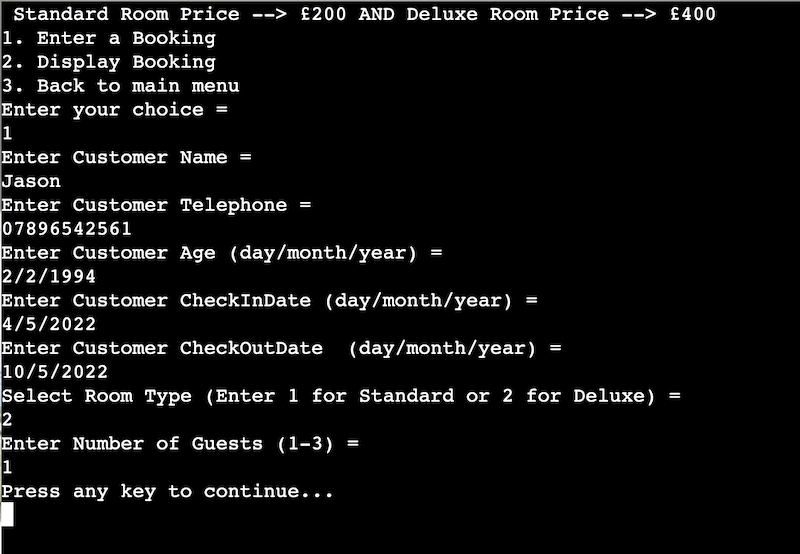
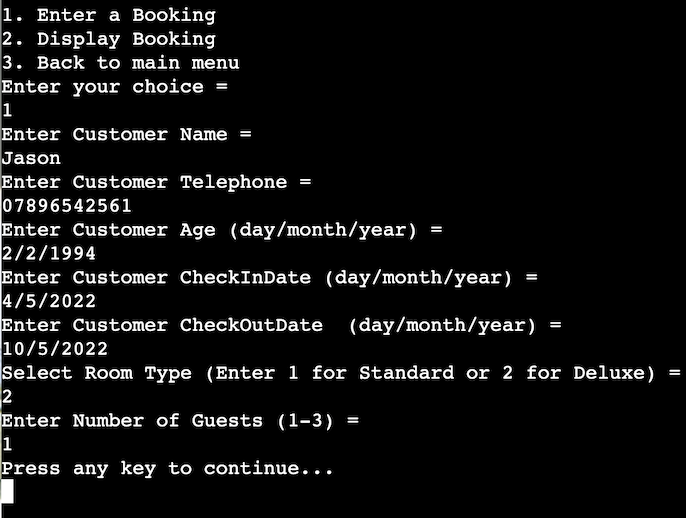
Clean up README.md

Changed region(s): [[0.0, 0.0, 1.0, 0.9884]]

diff --git a/README.md b/README.md
@@ -3,7 +3,7 @@
 * [Live link](https://the-boutique-hotel.herokuapp.com/) of the project
 
 ## Project Overview
-In this project I have created a hotel bookings management system that links to a spreadsheet. The user operating the system can create a booking by entering inputs of the client for whom the booking is made. The system ensures correct data is entered within each input by rasising an error if incorrect data or format is entered. The system also generates a total cost to stay at the hotel based on the type of room selected, the number of nights and people. Finallythe system than generates a booking ID for each client and adds it to the spreadsheet. The user can also fetch all bookings to be displayed altogether or display each booking by entering a specific booking ID.
+In this project I have created a hotel bookings management system that links to a spreadsheet. The user operating the system can create a booking by entering inputs of the client for whom the booking is made. The system ensures correct data is entered within each input by raising an error if incorrect data or format is entered. The system also generates a total cost of stay at the hotel based on the type of room selected, the number of nights and number of guests. Finally the system than generates a booking ID for each client and adds it to the spreadsheet. The user can also fetch all bookings to be displayed altogether or display each booking by entering a specific booking ID.
 
 ## Table of contents:
 * [**The Boutique Hotel**](#the-boutique-hotel)
@@ -19,8 +19,9 @@ In this project I have created a hotel bookings management system that links to 
 * [**Testing**](#testing)
     * [***test cases***](#test-cases)
     * [**Fixed bugs:**](#fixed-bugs)
+    * [**Validation**](#validation)
 * [**Deployment**](#deployment)
-  * [**GitHub](#Github)
+  * [**GitHub**](#Github)
   * [**Heroku**](#Heroku)
   * [**Make a clone**](#Clone)
 * [**Credits**](#credits)
@@ -47,7 +48,7 @@ In this project I have created a hotel bookings management system that links to 
   2. **Display Booking Data**
   3. **Exit**
 
-* **Enter/Manage Bookings**, a booking sub menu opens displaying the room type and price at the tope and 3 options:
+* **Enter/Manage Bookings**, a booking sub menu opens displaying 3 options:
   1. **The Enter a booking**
   2. **Display booking**
   3. **Back to main menu**
@@ -100,7 +101,7 @@ In this project I have created a hotel bookings management system that links to 
 * Displays the unique booking ID and calculates total cost of stay
   ![Booking](./assets/readme-files/test-ID-total-cost.png)
 * Display all bookings stored within the spread sheet
-  ![Booking](./assets/readme-files/test-display-all.png)
+  ![Booking](./assets/readme-files/test-display-all.png.png)
 * Display specific booking by booking ID
   ![Booking](./assets/readme-files/test-display-by-ID.png)
 
